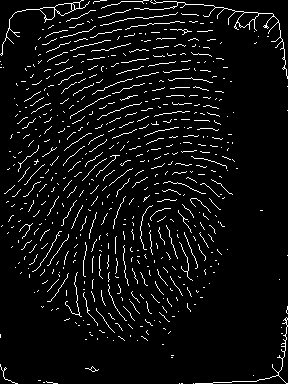
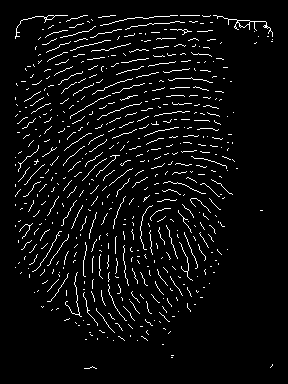
model #4

diff --git a/pipeline.py b/pipeline.py
@@ -1,11 +1,12 @@
 import os
 import glob
 import logging
+import math
 import cv2
 import numpy as np
 import networkx as nx
 import matplotlib.pyplot as plt
-from skimage.morphology import skeletonize, thin
+from skimage.morphology import skeletonize
 from skimage.draw import line
 from scipy.spatial import Delaunay
 from sklearn.neighbors import KDTree
@@ -15,18 +16,13 @@ from collections import Counter
 logging.basicConfig(level=logging.INFO, format='%(asctime)s - %(levelname)s - %(message)s')
 
 def load_fvc_dataset(base_path):
-    """
-    Input: String path to the base dataset directory (e.g., './datasets/PAMI Lab').
-    Output: List of tuples (file_path, finger_id).
-    """
+    """Loads image paths and finger IDs from the FVC dataset structure."""
     image_paths = []
-    # Search through DB1_B, DB2_B, DB3_B, DB4_B
     search_pattern = os.path.join(base_path, "DB*_B", "*.*")
     files = glob.glob(search_pattern)
     
     for file in files:
         filename = os.path.basename(file)
-        # Assuming standard FVC naming convention: '101_1.tif' -> ID 101, Impression 1
         try:
             finger_id = filename.split('_')[0]
             image_paths.append((file, finger_id))
@@ -37,21 +33,23 @@ def load_fvc_dataset(base_path):
     return image_paths
 
 def preprocess_and_thin(image_path, save_debug=False, debug_dir="./debug"):
-    """
-    Phase 1.1: Standard robust edge-detection and morphological thinning.
-    Input: Path to the image file.
-    Output: Binary thinned skeleton image (numpy array).
-    """
+    """Phase 1.1: Image enhancement, margin clearing, and morphological thinning."""
     img = cv2.imread(image_path, cv2.IMREAD_GRAYSCALE)
     if img is None:
         return None
         
-    # Enhance contrast and binarize
     clahe = cv2.createCLAHE(clipLimit=2.0, tileGridSize=(8,8))
     enhanced = clahe.apply(img)
     _, binary = cv2.threshold(enhanced, 0, 255, cv2.THRESH_BINARY_INV + cv2.THRESH_OTSU)
     
-    # Morphological thinning to 1-pixel wide ridges
+    # --- NEW: Clear the borders to prevent the bounding box artifact ---
+    margin = 15
+    binary[:margin, :] = 0        # Top edge
+    binary[-margin:, :] = 0       # Bottom edge
+    binary[:, :margin] = 0        # Left edge
+    binary[:, -margin:] = 0       # Right edge
+    # -------------------------------------------------------------------
+    
     binary_bool = binary > 0
     skeleton = skeletonize(binary_bool)
     
@@ -62,35 +60,61 @@ def preprocess_and_thin(image_path, save_debug=False, debug_dir="./debug"):
         
     return skeleton
 
-def extract_minutiae(skeleton, max_points=100):
-    """
-    Phase 1.1 (cont): Isolate minutiae points (vertices V).
-    Input: Thinned boolean image.
-    Output: List of (x, y) coordinates representing nodes.
-    """
-    # For demonstration, we use a proxy for minutiae (Harris corners on skeleton)
-    # A true minutiae extractor would use a 3x3 crossing number algorithm.
-    skeleton_uint8 = (skeleton * 255).astype(np.uint8)
-    corners = cv2.goodFeaturesToTrack(skeleton_uint8, max_points, 0.01, 10)
+def extract_minutiae_crossing_number(skeleton):
+    """Extracts true ridge endings and bifurcations using the 3x3 Crossing Number method."""
+    skeleton_bool = skeleton > 0
+    minutiae = []
+    neighbors = [(-1, -1), (-1, 0), (-1, 1), (0, 1), (1, 1), (1, 0), (1, -1), (0, -1), (-1, -1)]
+    rows, cols = skeleton_bool.shape
     
-    if corners is not None:
-        minutiae = [tuple(map(int, pt[0])) for pt in corners]
-        return minutiae
-    return []
+    for r in range(1, rows - 1):
+        for c in range(1, cols - 1):
+            if skeleton_bool[r, c]:
+                p = [skeleton_bool[r + dr, c + dc] for dr, dc in neighbors]
+                transitions = sum(1 for i in range(8) if p[i] != p[i+1])
+                cn = transitions / 2
+                
+                # CN == 1 (Ending), CN == 3 (Bifurcation)
+                if cn == 1 or cn == 3:
+                    minutiae.append((c, r)) 
+    return minutiae
+
+def filter_minutiae(minutiae, image_shape, border_dist=20, min_dist=10):
+    """Filters spurious minutiae near borders and merges dense noise clusters."""
+    filtered = []
+    rows, cols = image_shape
+    
+    # 1. Border Filtering
+    for x, y in minutiae:
+        if (x > border_dist and x < cols - border_dist and 
+            y > border_dist and y < rows - border_dist):
+            filtered.append((x, y))
+            
+    # 2. Greedy Distance Filtering (Fixes the annihilation bug)
+    final_minutiae = []
+    for p in filtered:
+        is_too_close = False
+        for kept_p in final_minutiae:
+            dist = math.hypot(p[0] - kept_p[0], p[1] - kept_p[1])
+            if dist < min_dist:
+                is_too_close = True
+                break
+        
+        # Only add the point if it isn't too close to one we've already saved
+        if not is_too_close:
+            final_minutiae.append(p)
+            
+    return final_minutiae
 
 def build_delaunay_graph(minutiae, save_debug=False, debug_dir="./debug"):
-    """
-    Phase 1.2: Apply Delaunay Triangulation to form edges E.
-    Input: List of (x,y) minutiae coordinates.
-    Output: List of edges (index1, index2).
-    """
+    """Phase 1.2: Applies Delaunay Triangulation to form the localized mesh."""
     if len(minutiae) < 4:
         return []
         
     points = np.array(minutiae)
     tri = Delaunay(points)
-    
     edges = set()
+    
     for simplex in tri.simplices:
         edges.add(tuple(sorted([simplex[0], simplex[1]])))
         edges.add(tuple(sorted([simplex[1], simplex[2]])))
@@ -99,99 +123,72 @@ def build_delaunay_graph(minutiae, save_debug=False, debug_dir="./debug"):
     if save_debug:
         plt.figure()
         plt.triplot(points[:, 0], points[:, 1], tri.simplices.copy())
-        plt.plot(points[:, 0], points[:, 1], 'ro')
+        plt.plot(points[:, 0], points[:, 1], 'ro', markersize=3)
         plt.gca().invert_yaxis()
+        plt.title("Filtered Minutiae & Delaunay Topology")
         plt.savefig(os.path.join(debug_dir, "3_delaunay.png"))
         plt.close()
         
     return list(edges)
 
 def calculate_ridge_counts(skeleton, minutiae, edges):
-    """
-    Phase 2: Distortion-Proof Edge Weights (Ridge Counting).
-    Input: Skeleton image, minutiae points, edges.
-    Output: Dictionary mapping edge (i, j) to an integer ridge count.
-    """
+    """Phase 2: Computes distortion-proof edge weights via ridge counting."""
     ridge_counts = {}
     for (i, j) in edges:
         x0, y0 = minutiae[i]
         x1, y1 = minutiae[j]
         
-        # Get pixels along the line between two minutiae
         rr, cc = line(y0, x0, y1, x1)
-        
-        # Ensure coordinates are within image bounds
         valid = (rr >= 0) & (rr < skeleton.shape[0]) & (cc >= 0) & (cc < skeleton.shape[1])
         rr, cc = rr[valid], cc[valid]
         
         line_pixels = skeleton[rr, cc]
-        
-        # Count transitions from 0 to 1 (ridge crossings)
         transitions = np.sum(np.diff(line_pixels.astype(int)) > 0)
         ridge_counts[(i, j)] = transitions
         
     return ridge_counts
 
 def extract_spectral_descriptors(minutiae, edges, ridge_counts, k_hops=2, desc_len=5):
-    """
-    Phase 3: Spectral Description of local subgraphs.
-    Input: Graph data and parameters.
-    Output: List of fixed-length numerical vectors (Spectral Descriptors).
-    """
+    """Phase 3: Generates localized invariant vectors (eigenvalues of Laplacian)."""
     G = nx.Graph()
     for idx, pt in enumerate(minutiae):
         G.add_node(idx, pos=pt)
-        
     for (i, j), weight in ridge_counts.items():
         G.add_edge(i, j, weight=weight)
         
     descriptors = []
-    
     for node in G.nodes():
-        # 1. Extract local k-hop neighborhood subgraph
         subgraph_nodes = nx.single_source_shortest_path_length(G, node, cutoff=k_hops).keys()
         subgraph = G.subgraph(subgraph_nodes)
         
-        if len(subgraph) < 3: # Ignore trivially small subgraphs
+        if len(subgraph) < 3: 
             continue
             
-        # 2. Compute Graph Laplacian L = D - A
         L = nx.laplacian_matrix(subgraph, weight='weight').todense()
+        eigenvalues = np.sort(np.linalg.eigvalsh(L))
         
-        # 3. Extract ordered eigenvalues
-        eigenvalues = np.linalg.eigvalsh(L)
-        eigenvalues = np.sort(eigenvalues)
-        
-        # Pad or truncate to fixed length
         if len(eigenvalues) >= desc_len:
             descriptor = eigenvalues[:desc_len]
         else:
             descriptor = np.pad(eigenvalues, (0, desc_len - len(eigenvalues)), 'constant')
             
         descriptors.append(descriptor)
-        
     return descriptors
 
 def build_database_index(dataset_paths):
-    """
-    Phase 4.1: Convert all dataset images into descriptors and index them.
-    Input: List of dataset tuples (path, finger_id).
-    Output: KDTree, array of all descriptors, array of corresponding finger IDs.
-    """
+    """Phase 4.1: Vectorizes enrollment images and builds O(logN) spatial index."""
     all_descriptors = []
     descriptor_labels = []
-    
     first_sample = True
     
     for path, finger_id in dataset_paths:
         skeleton = preprocess_and_thin(path, save_debug=first_sample)
-        if skeleton is None:
-            continue
+        if skeleton is None: continue
             
-        minutiae = extract_minutiae(skeleton)
+        raw_minutiae = extract_minutiae_crossing_number(skeleton)
+        minutiae = filter_minutiae(raw_minutiae, skeleton.shape)
         edges = build_delaunay_graph(minutiae, save_debug=first_sample)
         ridge_counts = calculate_ridge_counts(skeleton, minutiae, edges)
-        
         descriptors = extract_spectral_descriptors(minutiae, edges, ridge_counts)
         
         for desc in descriptors:
@@ -202,24 +199,17 @@ def build_database_index(dataset_paths):
             logging.info(f"Saved intermediate debug images for sample: {path}")
             first_sample = False
             
-    if not all_descriptors:
-        raise ValueError("No descriptors could be extracted from the dataset.")
-        
     X = np.array(all_descriptors)
-    tree = KDTree(X, metric='euclidean') # Phase 4: Ultrafast Vector Matching
-    
+    tree = KDTree(X, metric='euclidean')
     return tree, X, np.array(descriptor_labels)
 
-def match_fingerprint_query(query_path, kd_tree, database_labels):
-    """
-    Phase 4.2: Match a single query image against the KD-Tree.
-    Input: Path to query image, the populated KDTree, and the DB labels.
-    Output: Predicted Finger ID.
-    """
+def match_fingerprint_query(query_path, kd_tree, database_labels, max_l2_distance=0.5):
+    """Phase 4.2: Matches query image against index with strict FRR/FAR thresholding."""
     skeleton = preprocess_and_thin(query_path)
     if skeleton is None: return None
     
-    minutiae = extract_minutiae(skeleton)
+    raw_minutiae = extract_minutiae_crossing_number(skeleton)
+    minutiae = filter_minutiae(raw_minutiae, skeleton.shape)
     edges = build_delaunay_graph(minutiae)
     ridge_counts = calculate_ridge_counts(skeleton, minutiae, edges)
     query_descriptors = extract_spectral_descriptors(minutiae, edges, ridge_counts)
@@ -227,16 +217,15 @@ def match_fingerprint_query(query_path, kd_tree, database_labels):
     if not query_descriptors:
         return None
         
-    # Search tree in O(logN) time
     query_vectors = np.array(query_descriptors)
     distances, indices = kd_tree.query(query_vectors, k=3)
     
-    # Majority vote from nearest neighbors across all descriptors
     votes = []
-    for idx_list in indices:
-        for idx in idx_list:
-            votes.append(database_labels[idx])
-            
+    for i, idx_list in enumerate(indices):
+        for j, db_idx in enumerate(idx_list):
+            if distances[i][j] < max_l2_distance:
+                votes.append(database_labels[db_idx])
+                
     if votes:
         most_common = Counter(votes).most_common(1)[0][0]
         return most_common
@@ -244,7 +233,6 @@ def match_fingerprint_query(query_path, kd_tree, database_labels):
 
 def main():
     logging.info("Starting TRC-SD Fingerprint Pipeline...")
-    
     dataset_path = "./datasets/PAMI Lab"
     all_images = load_fvc_dataset(dataset_path)
     
@@ -252,7 +240,7 @@ def main():
         logging.error("No images found. Please check dataset path.")
         return
         
-    # Validation Setup: Split into enrollment (impression 1-6) and query (impression 7-8)
+    # Split: Enrollment (1-6) and Query (7-8)
     enrollment_set = [item for item in all_images if int(os.path.basename(item[0]).split('_')[1].split('.')[0]) <= 6]
     query_set = [item for item in all_images if int(os.path.basename(item[0]).split('_')[1].split('.')[0]) > 6]
     
@@ -264,8 +252,11 @@ def main():
     correct_matches = 0
     total_queries = len(query_set)
     
+    # Optional: adjust max_l2_distance to tune the FAR vs FRR tradeoff
+    distance_threshold = 0.4 
+    
     for q_path, true_id in query_set:
-        predicted_id = match_fingerprint_query(q_path, kd_tree, db_labels)
+        predicted_id = match_fingerprint_query(q_path, kd_tree, db_labels, max_l2_distance=distance_threshold)
         if predicted_id == true_id:
             correct_matches += 1
             
